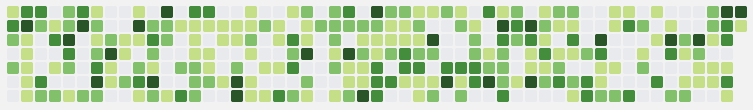
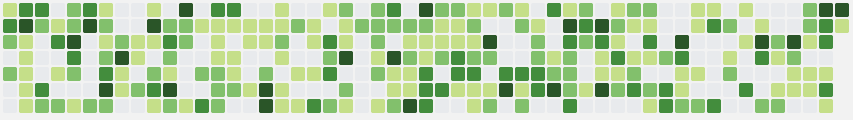
update readme

Changed region(s): [[0.0, 0.0, 1.0, 0.9545], [0.5498, 0.9, 0.7025, 0.9545]]

diff --git a/readme.md b/readme.md
@@ -1,10 +1,19 @@
 ## Trackalendar 🗓
 
-It is a calendar heatmap that shows the number of events that happened on each day.
 ![trackalendar.png](screenshots/trackalendar.png)
+
+
+It is a calendar heatmap that shows the number of events that happened on each day.
+
+Deployed in your Github Pages.
+
+it can be used to track your habits, projects, or anything you want to log. I use it for my sex life:
+
+![me.png](screenshots/me.png)
+
 ### Example
 
-See the demo published in GitHub Pages: https://angel-git.github.io/trackalendar/
+See the demo published in GitHub Pages with random dates: https://angel-git.github.io/trackalendar/
 
 ### Usage
 
